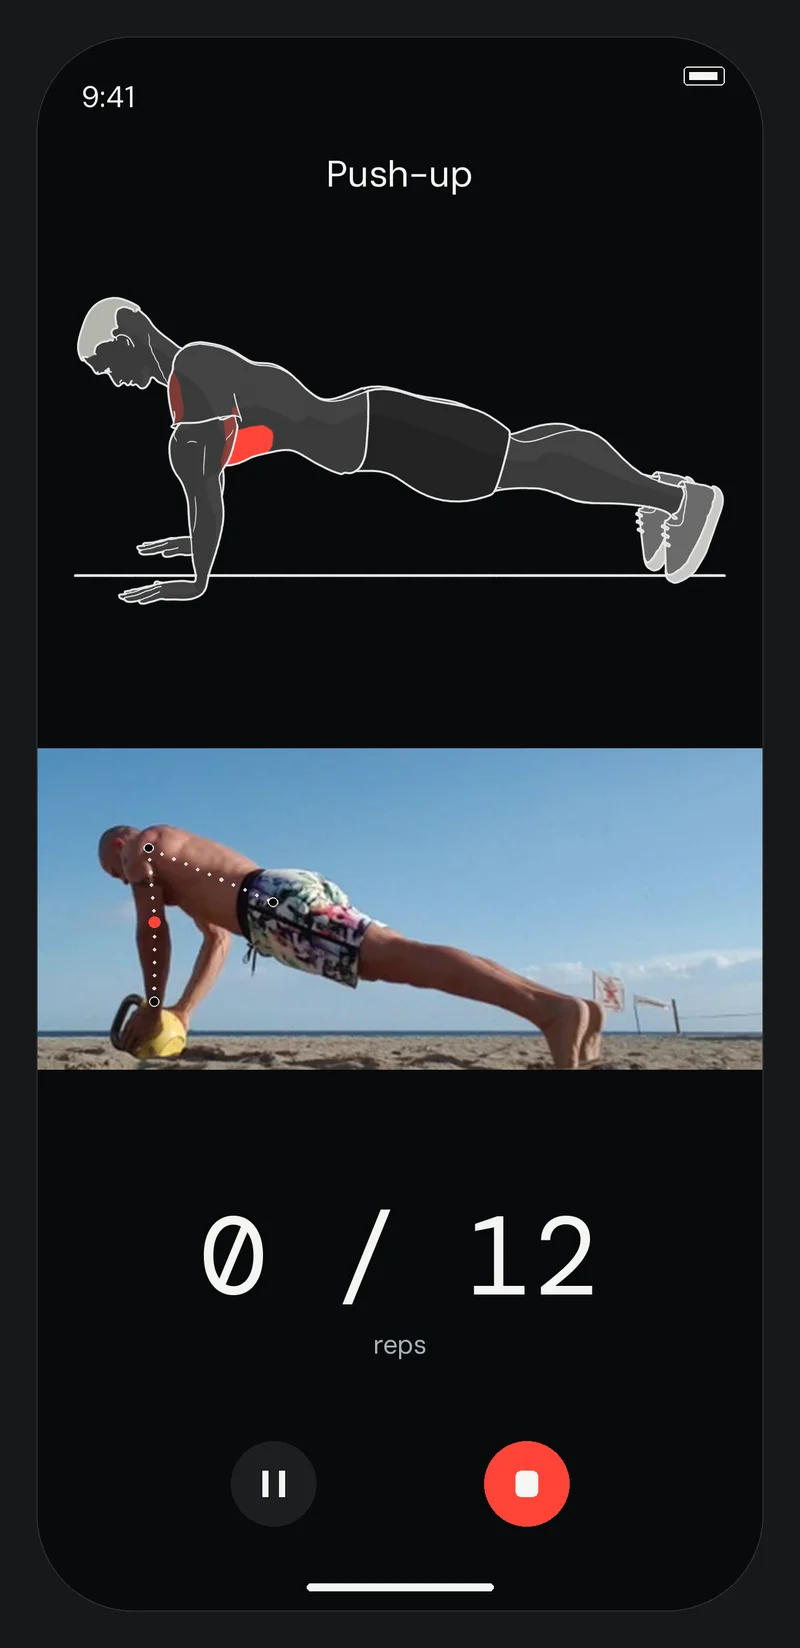
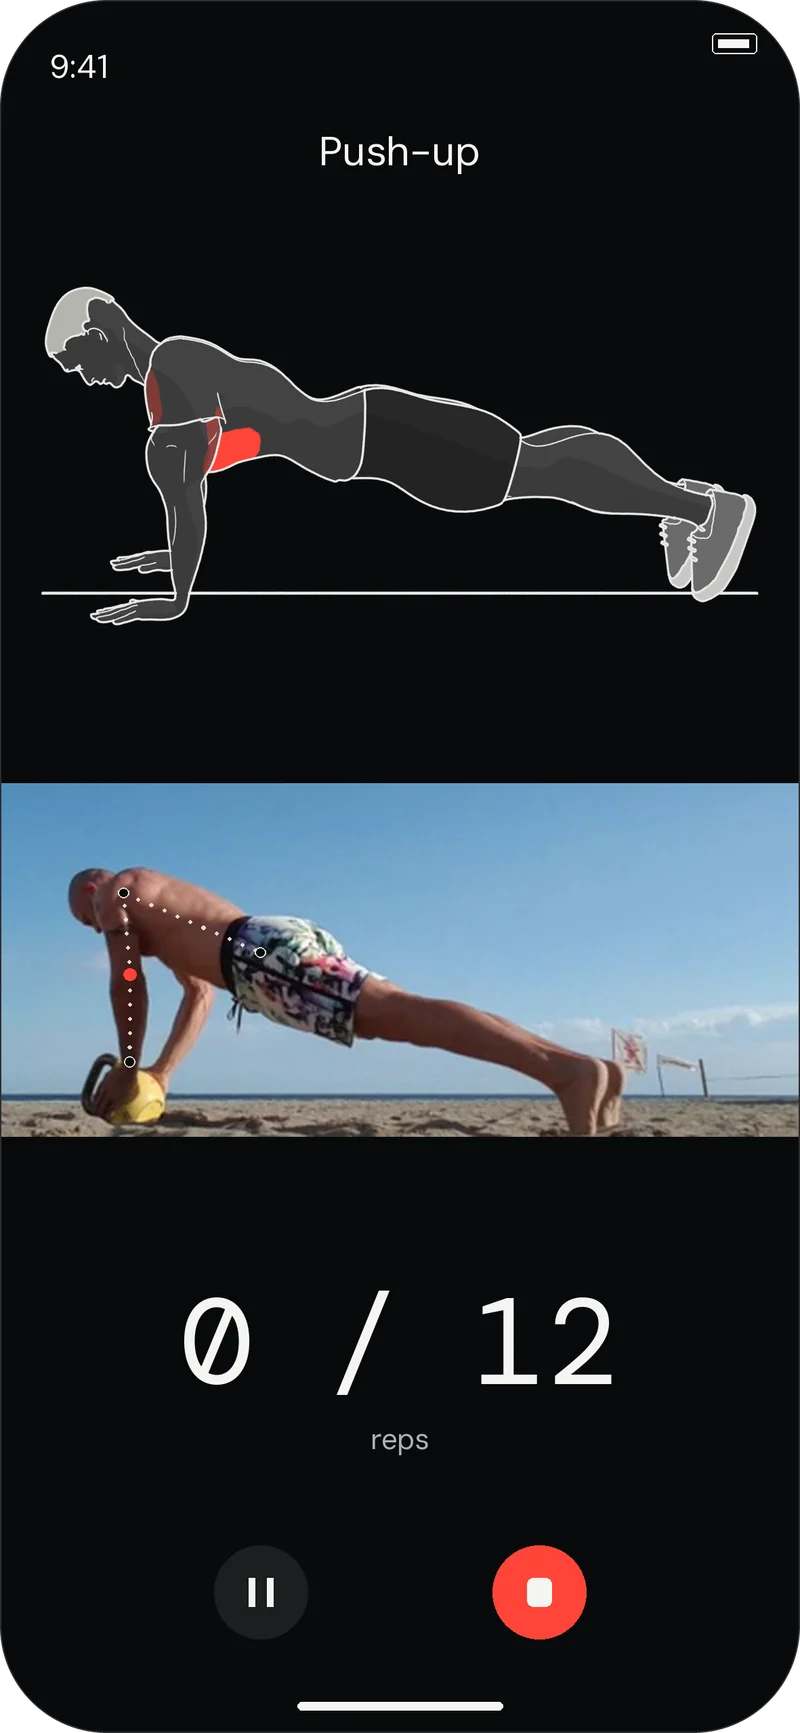
Make push-up phone corners transparent so only the rounded phone shows

diff --git a/tests/unit/phone-artwork-alpha.test.ts b/tests/unit/phone-artwork-alpha.test.ts
@@ -1,0 +1,33 @@
+import sharp from 'sharp'
+import { describe, expect, it } from 'vitest'
+
+const phones = ['pushup-balanced', 'slick-v5-minimal-clean', 'slick-v5-advanced-clean']
+
+describe('push-up phone artwork', () => {
+  for (const phone of phones) {
+    for (const width of [240, 480, 800]) {
+      it(`${phone}-${width} has transparent corners and an opaque body`, async () => {
+        const { data, info } = await sharp(`public/assets/phones/${phone}-${width}.webp`)
+          .ensureAlpha()
+          .raw()
+          .toBuffer({ resolveWithObject: true })
+        expect(info.width).toBe(width)
+        expect(info.height).toBe(Math.round((2558 * width) / 1181))
+        const alpha = (x: number, y: number) => data[(y * info.width + x) * info.channels + 3]
+        const last = { x: info.width - 1, y: info.height - 1 }
+        const corners: [number, number][] = [
+          [0, 0],
+          [last.x, 0],
+          [0, last.y],
+          [last.x, last.y],
+        ]
+        for (const [x, y] of corners) {
+          expect(alpha(x, y)).toBe(0)
+        }
+        expect(alpha(Math.floor(info.width / 2), 0)).toBeGreaterThan(200)
+        expect(alpha(0, Math.floor(info.height / 2))).toBeGreaterThan(200)
+        expect(alpha(Math.floor(info.width / 2), Math.floor(info.height / 2))).toBe(255)
+      })
+    }
+  }
+})

diff --git a/src/components/PhoneArtwork.tsx b/src/components/PhoneArtwork.tsx
@@ -43,8 +43,8 @@ export function PhoneArtwork({
             .map((width) => `${path(phone, width)} ${width}w`)
             .join(', ')}
           sizes={compact ? '86px' : '(max-width: 560px) 42vw, 188px'}
-          width={phone === 'deadlift-pexels' ? 1320 : 1299}
-          height={phone === 'deadlift-pexels' ? 2868 : 2676}
+          width={phone === 'deadlift-pexels' ? 1320 : 1181}
+          height={phone === 'deadlift-pexels' ? 2868 : 2558}
           alt={descriptions[phone]}
           loading={priority ? 'eager' : 'lazy'}
           fetchPriority={priority && index === 0 ? 'high' : 'auto'}

diff --git a/public/assets/phones/SOURCES.md b/public/assets/phones/SOURCES.md
@@ -1,6 +1,6 @@
 # D1 preview phone artwork, 7 November 2026
 
-Private review only. Not public-cleared. Ashish requested the split-view phones without concept or sample captions. Source exports are unchanged. WebP variants at 240, 480 and 800 pixels wide are resized from Marketing’s exports in `/workspace/wd-portfolio-phone-concepts-2026-11-07/exports/`.
+Private review only. Not public-cleared. Ashish requested the split-view phones without concept or sample captions. WebP variants at 240, 480 and 800 pixels wide are resized from Marketing’s exports in `/workspace/wd-portfolio-phone-concepts-2026-11-07/exports/`. The push-up exports are cropped to the phone body (1181×2558 from 1299×2676) and the corners outside its 158 pixel radius are transparent, so no dark square shows on the page. Those copies are in `exports/transparent/`.
 
 ## Placements
 
